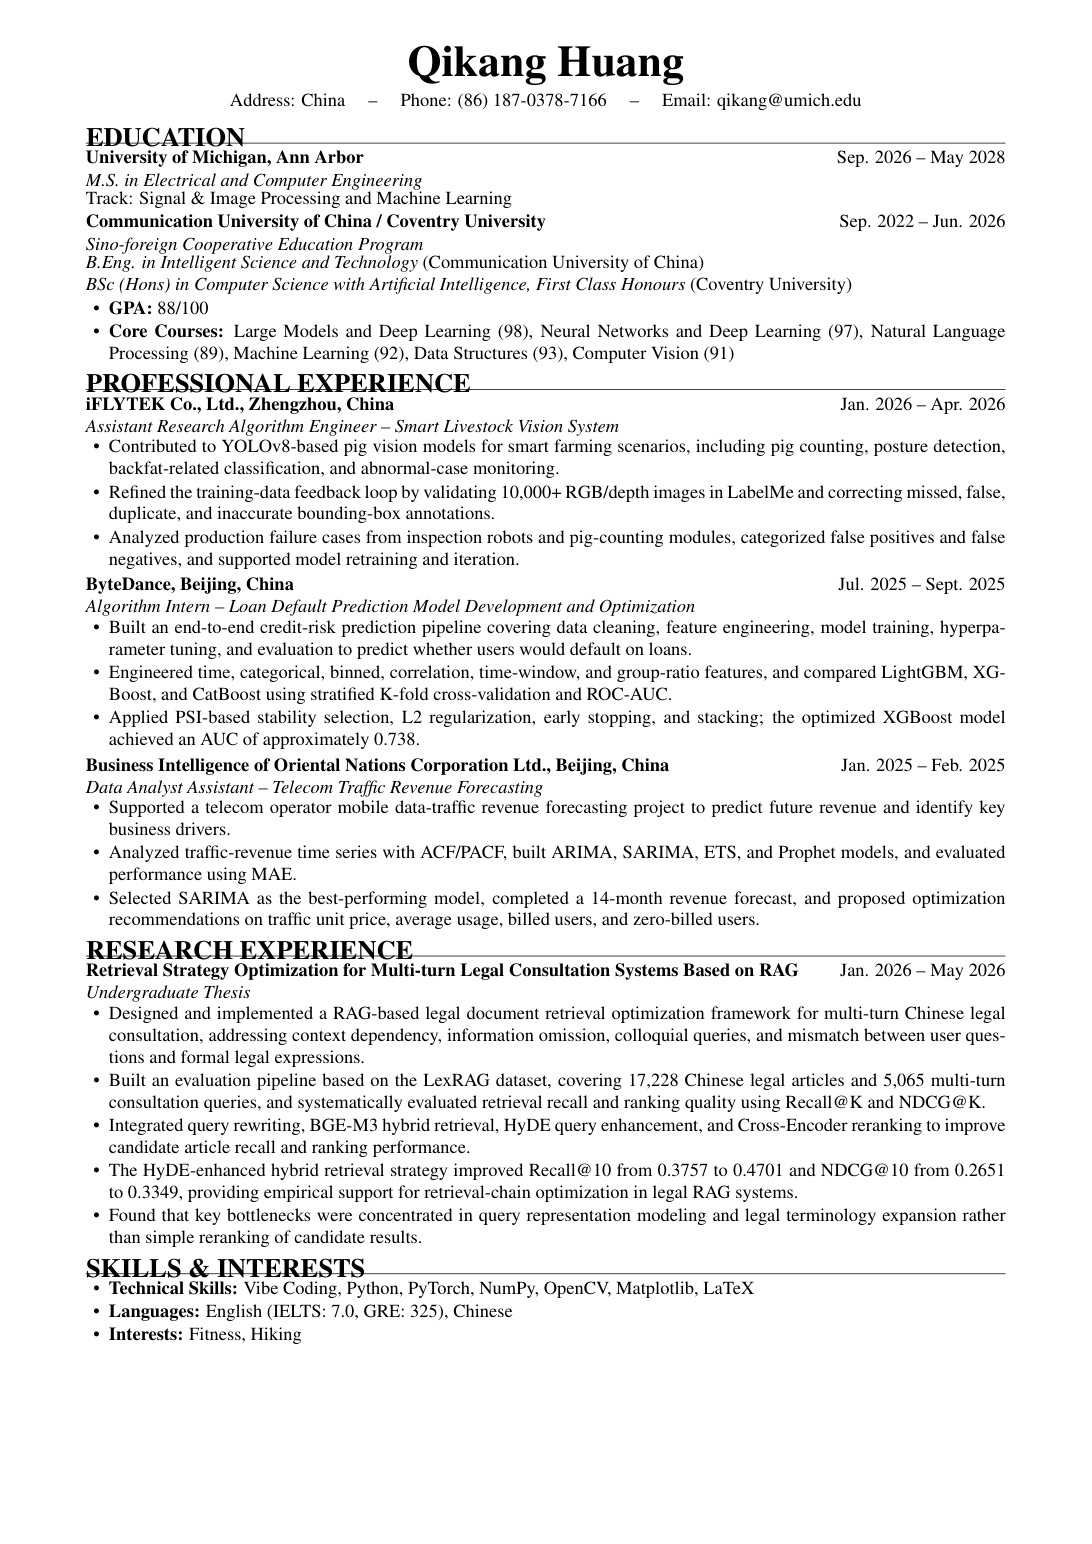
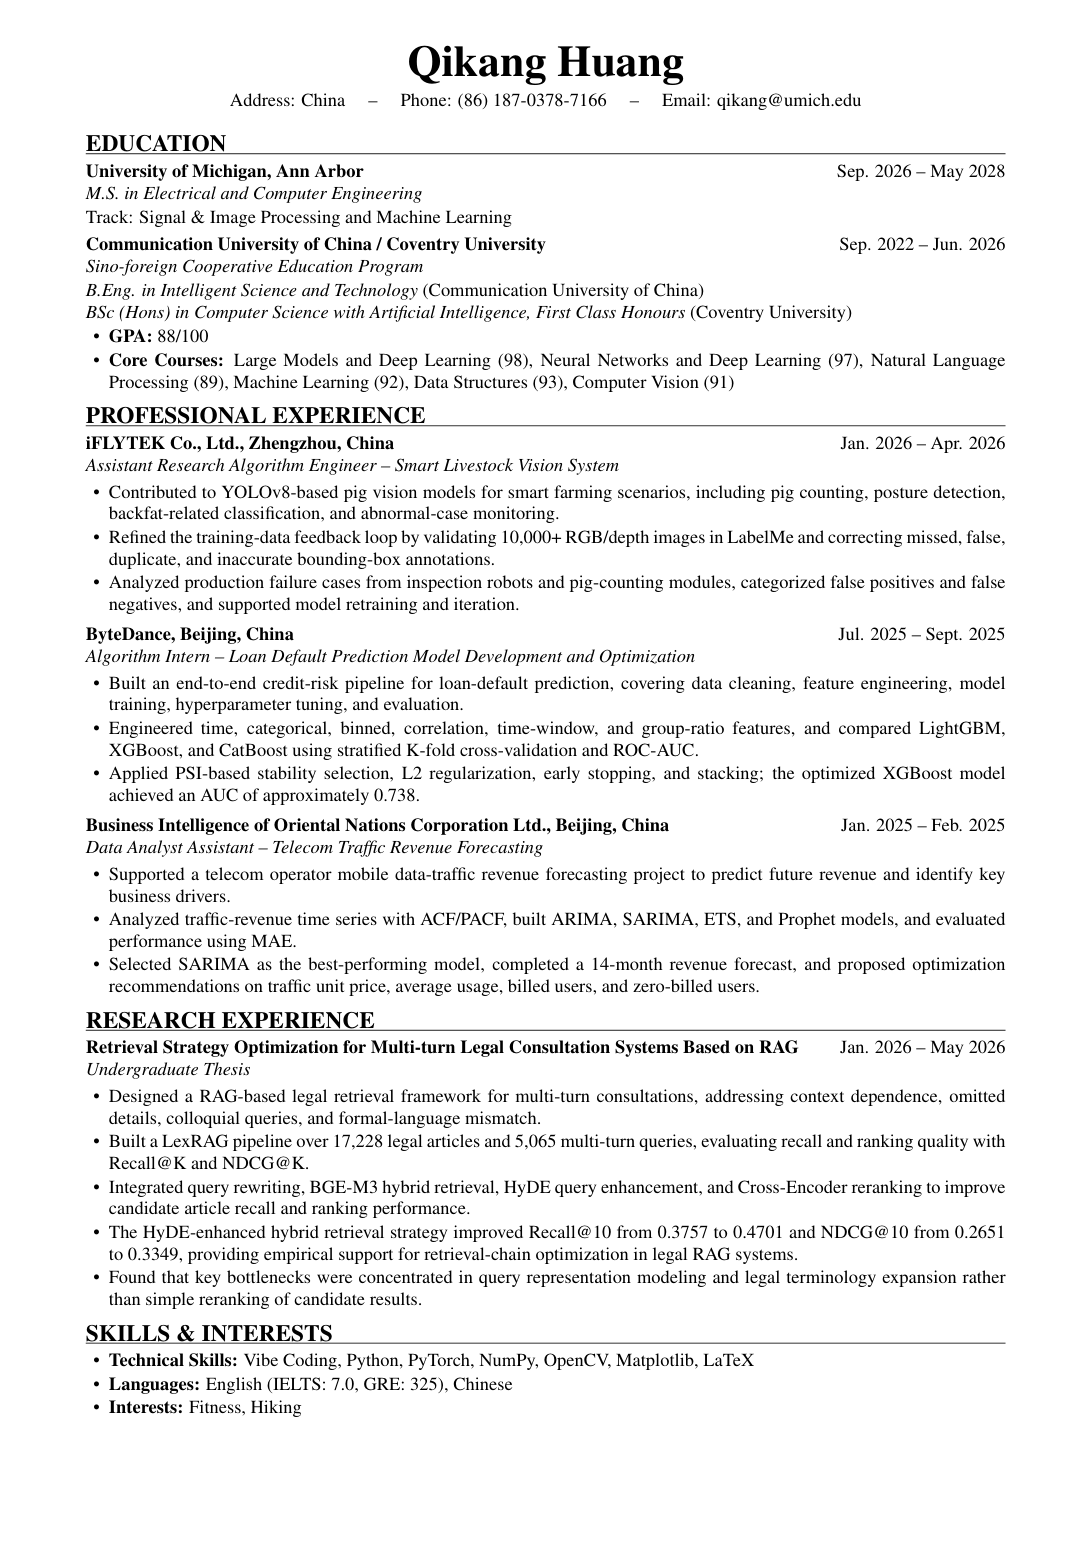
Improve resume layout and spacing

diff --git a/resume.tex b/resume.tex
@@ -10,19 +10,22 @@
 \setlength{\parindent}{0pt}
 \setlength{\parskip}{0pt}
 \setlength{\tabcolsep}{0pt}
+\setlength{\emergencystretch}{2em}
+\hyphenpenalty=10000
+\exhyphenpenalty=10000
 \setlist[itemize]{
   leftmargin=1.25em,
   label=\textbullet,
-  itemsep=0.7pt,
-  topsep=1.2pt,
+  itemsep=0.8pt,
+  topsep=1.5pt,
   parsep=0pt,
   partopsep=0pt
 }
 
 \newcommand{\resumesection}[1]{%
-  \vspace{4pt}%
-  {\fontsize{14.5}{15}\selectfont\bfseries #1}\par
-  \vspace{-2pt}\hrule\vspace{2.5pt}%
+  \par\vspace{6pt}%
+  {\fontsize{12.8}{14}\selectfont\bfseries #1}\par
+  \vspace{1pt}\hrule height 0.45pt\vspace{4pt}%
 }
 
 \newcommand{\datedheading}[2]{%
@@ -32,7 +35,7 @@
 }
 
 \newcommand{\roleline}[1]{%
-  \vspace{-1pt}\textit{#1}\par\vspace{-1pt}%
+  \vspace{0.5pt}\textit{#1}\par\vspace{0.5pt}%
 }
 
 \begin{document}
@@ -44,14 +47,14 @@
   Address: China \quad -- \quad Phone: (86) 187-0378-7166 \quad -- \quad
   Email: \href{mailto:qikang@umich.edu}{qikang@umich.edu}
 \end{center}
-\vspace{-5pt}
+\vspace{-3pt}
 
 \resumesection{EDUCATION}
 \datedheading{University of Michigan, Ann Arbor}{Sep. 2026 -- May 2028}
 \roleline{M.S. in Electrical and Computer Engineering}
 Track: Signal \& Image Processing and Machine Learning
 
-\vspace{1pt}
+\vspace{3pt}
 \datedheading{Communication University of China / Coventry University}{Sep. 2022 -- Jun. 2026}
 \roleline{Sino-foreign Cooperative Education Program}
 \textit{B.Eng. in Intelligent Science and Technology} (Communication University of China)\\
@@ -70,16 +73,16 @@ Track: Signal \& Image Processing and Machine Learning
   \item Analyzed production failure cases from inspection robots and pig-counting modules, categorized false positives and false negatives, and supported model retraining and iteration.
 \end{itemize}
 
-\vspace{1pt}
+\vspace{3pt}
 \datedheading{ByteDance, Beijing, China}{Jul. 2025 -- Sept. 2025}
 \roleline{Algorithm Intern -- Loan Default Prediction Model Development and Optimization}
 \begin{itemize}
-  \item Built an end-to-end credit-risk prediction pipeline covering data cleaning, feature engineering, model training, hyperparameter tuning, and evaluation to predict whether users would default on loans.
+  \item Built an end-to-end credit-risk pipeline for loan-default prediction, covering data cleaning, feature engineering, model training, hyperparameter tuning, and evaluation.
   \item Engineered time, categorical, binned, correlation, time-window, and group-ratio features, and compared LightGBM, XGBoost, and CatBoost using stratified K-fold cross-validation and ROC-AUC.
   \item Applied PSI-based stability selection, L2 regularization, early stopping, and stacking; the optimized XGBoost model achieved an AUC of approximately 0.738.
 \end{itemize}
 
-\vspace{1pt}
+\vspace{3pt}
 \datedheading{Business Intelligence of Oriental Nations Corporation Ltd., Beijing, China}{Jan. 2025 -- Feb. 2025}
 \roleline{Data Analyst Assistant -- Telecom Traffic Revenue Forecasting}
 \begin{itemize}
@@ -92,8 +95,8 @@ Track: Signal \& Image Processing and Machine Learning
 \datedheading{Retrieval Strategy Optimization for Multi-turn Legal Consultation Systems Based on RAG}{Jan. 2026 -- May 2026}
 \roleline{Undergraduate Thesis}
 \begin{itemize}
-  \item Designed and implemented a RAG-based legal document retrieval optimization framework for multi-turn Chinese legal consultation, addressing context dependency, information omission, colloquial queries, and mismatch between user questions and formal legal expressions.
-  \item Built an evaluation pipeline based on the LexRAG dataset, covering 17,228 Chinese legal articles and 5,065 multi-turn consultation queries, and systematically evaluated retrieval recall and ranking quality using Recall@K and NDCG@K.
+  \item Designed a RAG-based legal retrieval framework for multi-turn consultations, addressing context dependence, omitted details, colloquial queries, and formal-language mismatch.
+  \item Built a LexRAG pipeline over 17,228 legal articles and 5,065 multi-turn queries, evaluating recall and ranking quality with Recall@K and NDCG@K.
   \item Integrated query rewriting, BGE-M3 hybrid retrieval, HyDE query enhancement, and Cross-Encoder reranking to improve candidate article recall and ranking performance.
   \item The HyDE-enhanced hybrid retrieval strategy improved Recall@10 from 0.3757 to 0.4701 and NDCG@10 from 0.2651 to 0.3349, providing empirical support for retrieval-chain optimization in legal RAG systems.
   \item Found that key bottlenecks were concentrated in query representation modeling and legal terminology expansion rather than simple reranking of candidate results.
